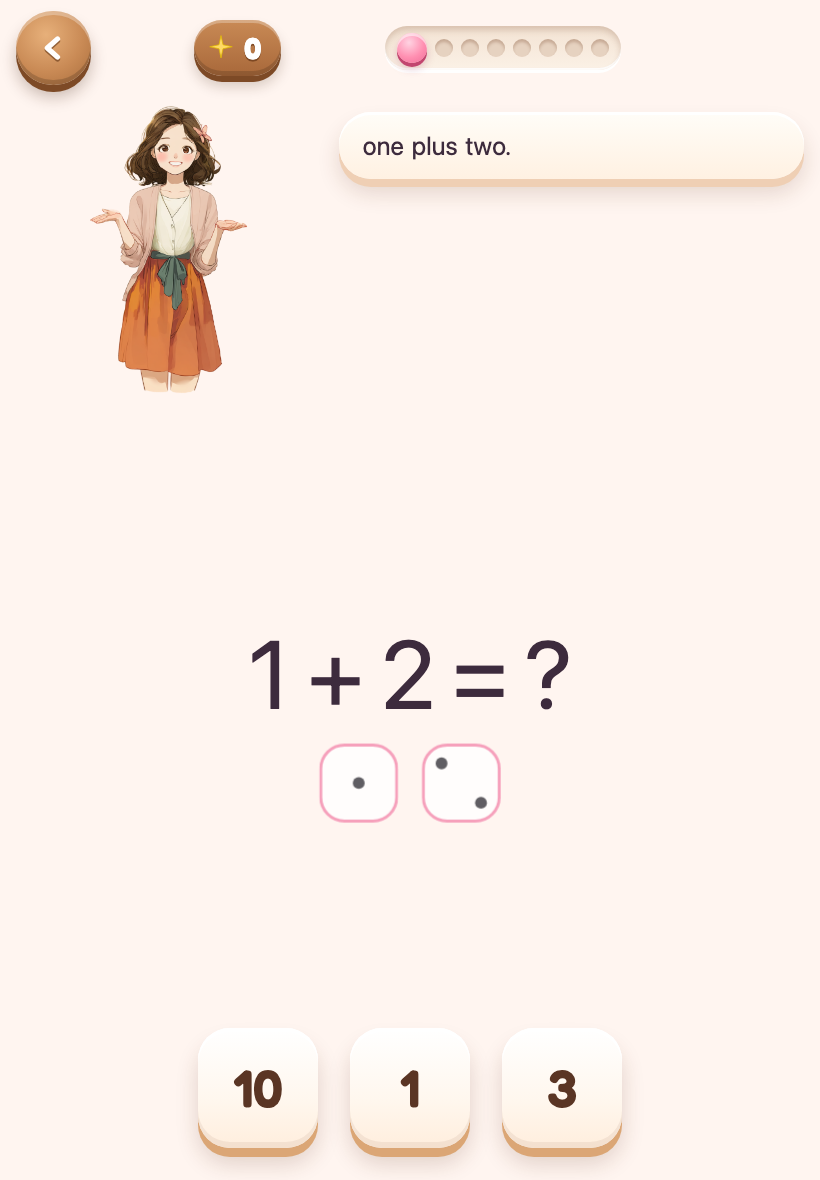
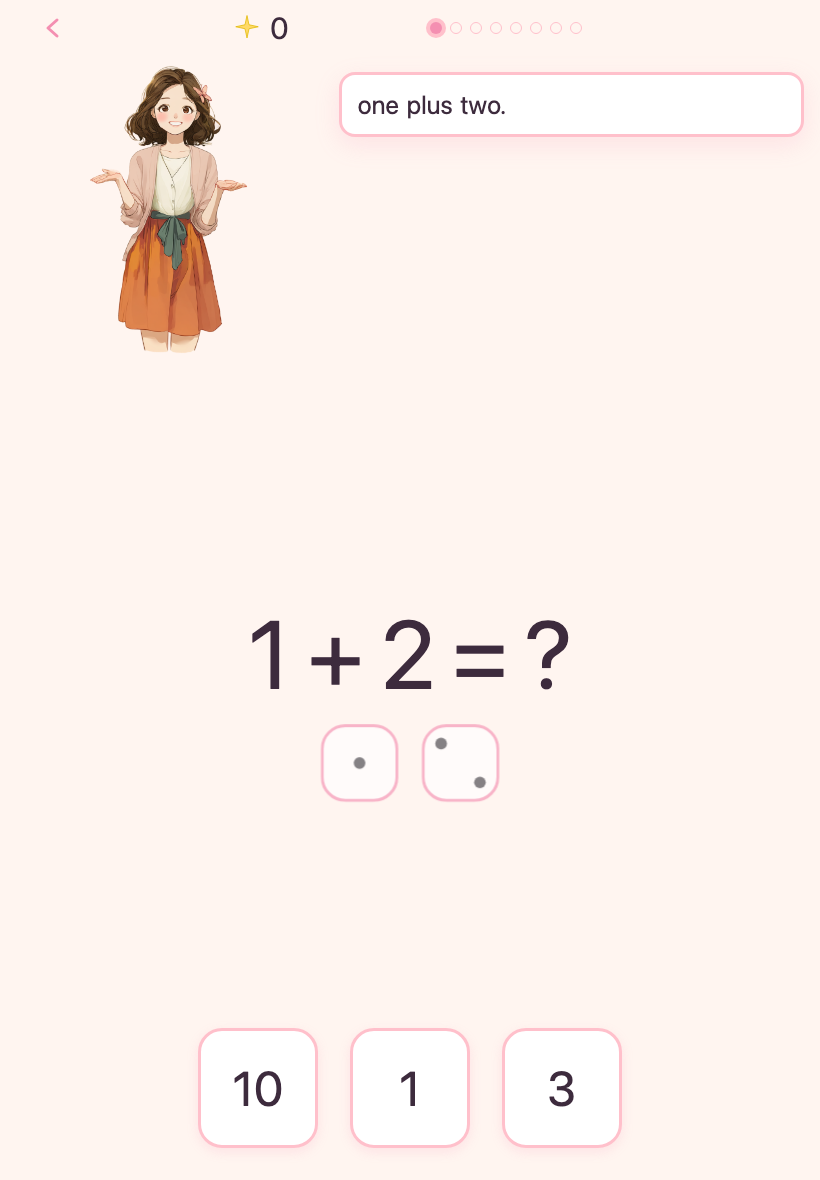
fix(lesson): smaller current bead + subtler answer-tile slab (R5 feedback)
- Current progress bead 30px -> 24px (completed 22px, upcoming 18px) with
  a 2px slab + soft shadow, so it sits inside the 44px track.
- Answer tile slab 9px -> 6px, drop shadow 0 16px 22px/0.18 -> 0 10px
  14px/0.12; press slab 3px -> 2px and whileTap y 6 -> 4 so the face
  still lands on its slab. Math + Word Song.
- Re-captured before shots from origin/main (pre-R5 frame) and after
  shots at 820x1180.

diff --git a/src/index.css b/src/index.css
@@ -71,14 +71,14 @@ body {
     box-shadow:
       inset 0 4px 0 #ffffff,
       inset 0 -6px 0 rgba(120, 70, 40, 0.08),
-      0 9px 0 var(--clay-slab),
-      0 16px 22px rgba(90, 45, 20, 0.18);
+      0 6px 0 var(--clay-slab),
+      0 10px 14px rgba(90, 45, 20, 0.12);
   }
   .clay-tile.clay-press:active:not(:disabled) {
     box-shadow:
       inset 0 4px 0 #ffffff,
-      0 3px 0 var(--clay-slab),
-      0 6px 10px rgba(90, 45, 20, 0.18);
+      0 2px 0 var(--clay-slab),
+      0 4px 8px rgba(90, 45, 20, 0.12);
   }
   /* Guided-attempt shimmer on the correct tile: a warm glow ring around the
      same slab, never a colour that reads as right/wrong. */
@@ -86,7 +86,7 @@ body {
     box-shadow:
       inset 0 4px 0 #ffffff,
       inset 0 -6px 0 rgba(120, 70, 40, 0.08),
-      0 9px 0 var(--clay-slab),
+      0 6px 0 var(--clay-slab),
       0 0 0 6px rgba(255, 214, 92, 0.75),
       0 0 30px 10px rgba(255, 196, 64, 0.55);
   }
@@ -168,9 +168,11 @@ body {
       inset 0 2px 0 rgba(255, 255, 255, 0.6),
       0 3px 0 #c98a1f;
   }
+  /* "You are here": ~10% larger than a completed bead so it stays inside
+     the 44px track, with a small slab + soft shadow for the raised read. */
   .clay-bead[data-state='current'] {
-    width: 30px;
-    height: 30px;
+    width: 24px;
+    height: 24px;
     background: radial-gradient(
       circle at 40% 32%,
       #ffd3e2 0,
@@ -178,9 +180,9 @@ body {
       #f06c98 100%
     );
     box-shadow:
-      inset 0 3px 0 rgba(255, 255, 255, 0.55),
-      0 4px 0 #c2456f,
-      0 6px 8px rgba(150, 40, 80, 0.25);
+      inset 0 2px 0 rgba(255, 255, 255, 0.6),
+      0 2px 0 #c2456f,
+      0 3px 4px rgba(150, 40, 80, 0.25);
   }
 
   /* Caption ribbon: cream clay speech slab (was a thin pink outline card). */

diff --git a/src/screens/WordSong/WordSong.tsx b/src/screens/WordSong/WordSong.tsx
@@ -2130,12 +2130,12 @@ function WordSongScreen({
                         }
                   }
                   // Clay press: the face sinks onto its slab (the CSS
-                  // `.clay-press:active` drops the slab by the same 6px).
+                  // `.clay-press:active` drops the slab by the same 4px).
                   // MotionConfig reducedMotion="user" skips the transform.
                   whileTap={
                     problemState.resolved || dimForGuided || !readAloudPlayed
                       ? undefined
-                      : { y: 6 }
+                      : { y: 4 }
                   }
                   transition={
                     isShaking

diff --git a/src/screens/Math/Math.tsx b/src/screens/Math/Math.tsx
@@ -3337,12 +3337,12 @@ function MathScreen({
                         }
                   }
                   // Clay press: the face sinks onto its slab (the CSS
-                  // `.clay-press:active` drops the slab by the same 6px).
+                  // `.clay-press:active` drops the slab by the same 4px).
                   // MotionConfig reducedMotion="user" skips the transform.
                   whileTap={
                     problemState.resolved || dimForGuided || !chipGateOpen
                       ? undefined
-                      : { y: 6 }
+                      : { y: 4 }
                   }
                   transition={
                     isShaking
